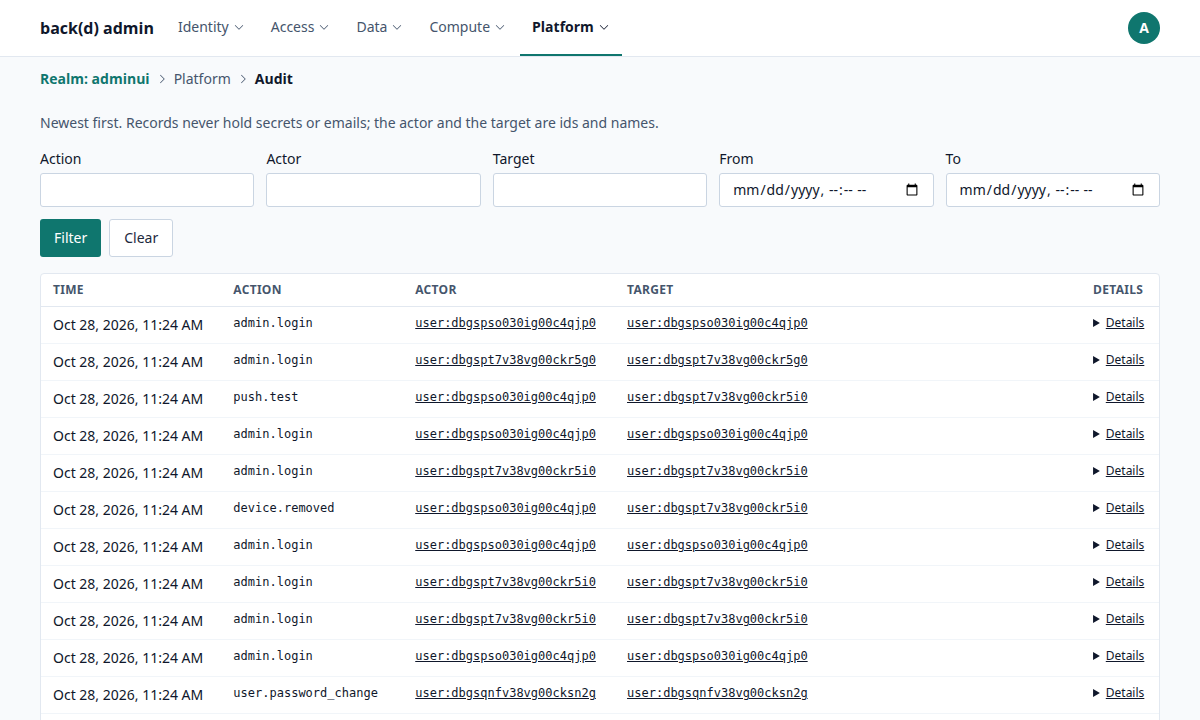
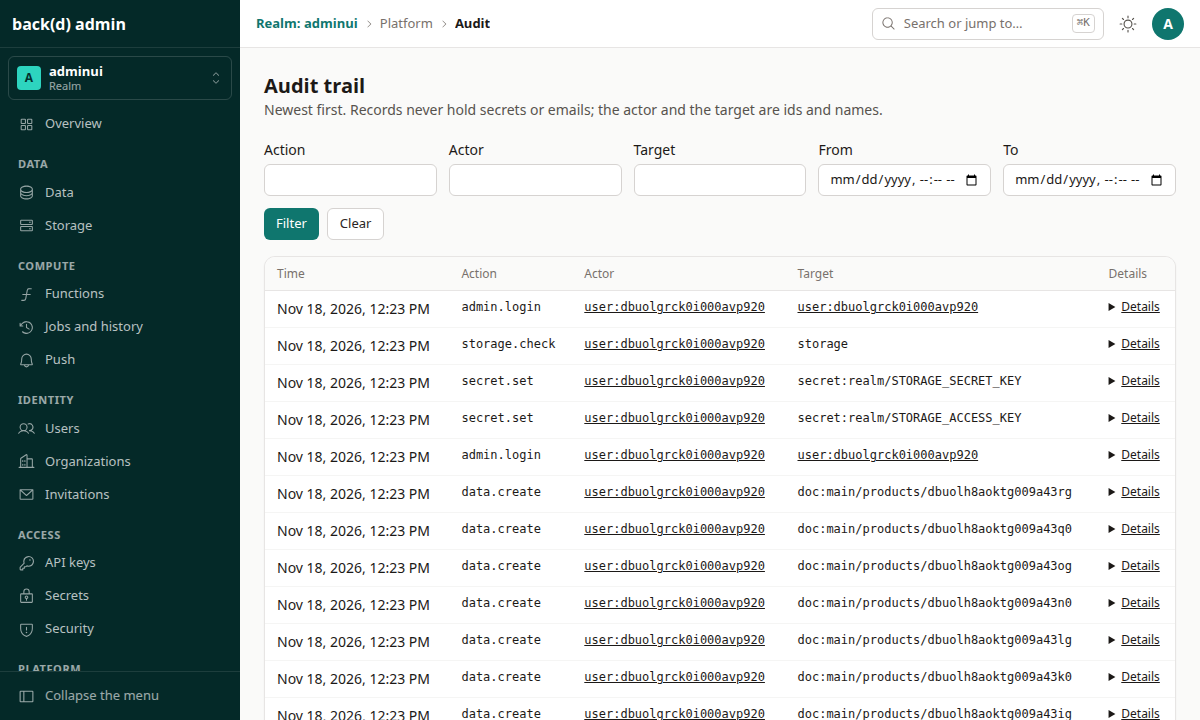
Docs: the Admin UI guide describes the sidebar, the collection tabs and the Account page
New pictures, taken on a clean stack. Also fixes an anchor in the Admin API page.

diff --git a/ui/admin/e2e/screenshots.spec.ts b/ui/admin/e2e/screenshots.spec.ts
@@ -39,18 +39,19 @@ test('screenshots of the main views', async ({ page, signIn }) => {
   await shoot('audit', 'audit-table', 'audit')
   await shoot('functions', 'fn-main-greet', 'functions')
   await shoot('functions/history', 'history-table', 'history')
-  await shoot('config/collections', 'col-main-products', 'config')
+  await shoot('config/files', 'file-tree', 'config')
   await page.goto(`/_ui/r/${REALM}/data/main/products`)
   await expect(page.getByTestId('docs-table')).toBeVisible()
 
   // The query builder with a condition, and a document as a form.
+  await page.getByTestId('filter-toggle').click()
   await page.getByRole('button', { name: 'Add condition' }).click()
   const row = page.getByTestId('condition').first()
   await row.getByLabel('Field').selectOption('name')
   await row.getByLabel('Operator').selectOption('$icontains')
   await row.getByLabel('Value').fill('widget')
   await page.getByRole('button', { name: 'Apply' }).click()
-  await expect(page.getByTestId('total')).toHaveText('1 documents')
+  await expect(page.getByTestId('total')).toHaveText(/ of 1$/)
   await page.screenshot({ path: out('query') })
   await page.getByRole('link', { name: /^[0-9a-v]{20}$/ }).first().click()
   await expect(page.getByTestId('doc-version')).toBeVisible()
@@ -60,6 +61,7 @@ test('screenshots of the main views', async ({ page, signIn }) => {
 
   // A user's page.
   await page.goto(`/_ui/r/${REALM}/users`)
+  await page.getByLabel('Search by email').fill('viewer@adminui.example')
   await page.getByRole('link', { name: 'viewer@adminui.example' }).click()
   await expect(page.getByTestId('user-email')).toBeVisible()
   await page.screenshot({ path: out('user') })

diff --git a/docs/content/docs/operate/administration/admin-ui.md b/docs/content/docs/operate/administration/admin-ui.md
@@ -39,23 +39,24 @@ The overview page lists the level (full, read-only or custom) and the areas the 
 
 ## Navigation
 
-{{< screenshot src="admin-ui/menu.png" alt="The bar with the Compute menu open: Functions, Push, and Jobs and history, each with a line saying what it is for; the breadcrumb below the bar" >}}
+{{< screenshot src="admin-ui/menu.png" alt="The sidebar, painted with the accent colour: the realm switcher, then Overview and the groups Data, Compute, Identity, Access and Platform; the breadcrumb, search and account in the bar above the page" >}}
 
-The pages are in five menus along the top:
+The pages are in a **sidebar** on the left, in the accent colour. At its top is the **realm switcher**; under it the overview and five groups:
 
-| Menu | Pages |
+| Group | Pages |
 |---|---|
-| **Identity** | Overview, Users, Organizations, Invitations |
-| **Access** | API keys, Secrets |
+| *(none)* | Overview |
 | **Data** | Data (with the schema checks), Storage |
-| **Compute** | Functions, Push, Jobs and history |
-| **Platform** | Audit, Configuration |
+| **Compute** | Functions, Jobs and history, Push |
+| **Identity** | Users, Organizations, Invitations |
+| **Access** | API keys, Secrets, Security |
+| **Platform** | Audit, Compliance, App config, Configuration |
 
-A menu opens with a click, or with Enter or Space on its button; it lists its pages with a line saying what each is for, puts the focus on the first, and closes with Escape or a click elsewhere. The page you are on is marked, and so is its menu. The menus show only the pages the account may read: a group with nothing to show is not there, and neither are Organizations, Storage or Push in a realm that has not switched them on.
+The page you are on is marked. The sidebar shows only the pages the account may read: a group with nothing to show is not there, and neither are Organizations, Storage or Push in a realm that has not switched them on. The button at its foot **collapses** it to icons (every link keeps its name as a tooltip and for screen readers); the choice is kept in this browser. On a narrow screen the sidebar is a drawer behind a **Menu** button in the top bar.
 
-Under the bar, the **breadcrumb** shows where you are, from the realm, in the accent colour, to the page (for example `Realm: adminui › Data › main › notes › a document`). Every part that has a page of its own leads there; a database has none, so it is plain text. The tab of the browser carries the name of the page too.
+The top bar has, from the left, the **breadcrumb**, a **search** (`Ctrl`/`⌘` + `K`, or the button) that jumps to a page, a collection or a function, a button for the **theme** and the **account menu**. The breadcrumb shows where you are, from the realm, in the accent colour, to the page (for example `Realm: adminui › Data › main › notes`). Every part that has a page of its own leads there; a database has none, so it is plain text. The tab of the browser carries the name of the page too.
 
-On the right, the **account menu** (the button with your initial) shows who is signed in, the language and theme choices and **Sign out**. What an action did is confirmed by a message under the bar (an error stays until it is dismissed). On a narrow screen the five menus and the account controls stack under one **Menu** button.
+The account menu (the button with your initial) shows who is signed in, a link to the **Account** page and **Sign out**. What an action did is confirmed by a message (an error stays until it is dismissed).
 
 ## Users and invitations
 
@@ -81,7 +82,7 @@ A read-only level sees the Users page only when the realm's `admin.read_access.u
 
 ## Your account and passkeys
 
-The **Account** page (the *Account* link of the account menu) lists the signed-in administrator's [passkeys](../../../build/auth/sessions/#passkeys) with their name, whether they sync between devices, when they were added and last used, and **adds**, **renames** and **removes** them. Adding or removing one asks for a fresh proof: the password, an authenticator code, or the passkey itself for an account whose only proof it is. Removing the passkey that opened the current session ends the session. A passkey is made by the browser, so the page offers *Add* only where the browser supports them.
+The **Account** page (the *Account* link of the account menu) holds the [appearance](#language-theme-and-accent) of the interface and lists the signed-in administrator's [passkeys](../../../build/auth/sessions/#passkeys) with their name, whether they sync between devices, when they were added and last used, and **adds**, **renames** and **removes** them. Adding or removing one asks for a fresh proof: the password, an authenticator code, or the passkey itself for an account whose only proof it is. Removing the passkey that opened the current session ends the session. A passkey is made by the browser, so the page offers *Add* only where the browser supports them.
 
 For this to work the realm needs `auth.passkeys.enabled`, and the admin interface must be served from an origin within the realm's `rp_id` (the origins in `auth.passkeys.origins`, `https` in production; `http://localhost` only in development). An administrator opening the interface at another address sees the browser refuse the ceremony.
 
@@ -141,15 +142,18 @@ On the Jobs page an administrator with the `functions` area can also **cancel** 
 
 ## Configuration
 
-{{< screenshot src="admin-ui/config.png" alt="A collection in the configuration view: its schema, indexes, rules and policy, each with its source file" >}}
+{{< screenshot src="admin-ui/config.png" alt="The configuration's files: the tree of every file the server loaded and the realm.yaml shown read-only" >}}
 
-The **Configuration** area shows what this instance runs for the realm, read from the files it loaded through `GET /_admin/config`. It is read-only by design: configuration is a reviewed, versioned artifact, so the interface never edits it. Change the files, review and deploy them; *Reload* fetches what the instance runs now.
+The **Configuration** area shows what this instance runs for the realm, read from the files it loaded through `GET /_admin/config`. It is read-only by design: configuration is a reviewed, versioned artifact, so the interface never edits, applies or reloads it. Change the files in your configuration repository, review and deploy them; the page's *Reload* button only fetches what the instance runs now.
 
 - **Overview:** the realm, its `realm.yaml` file, the **config fingerprint** (it changes whenever any configuration file changes, so comparing it across instances shows whether they run the same files) and the **startup warnings** (an admin API open to any network, open sign-up, no administrators and the like).
 - **Settings:** every realm setting with its default applied, one row per setting with its dotted path, and the roles with their description, admin access and seeded users. Secrets appear as names only, never values, and the seeded emails show only to a level that may read users.
-- **Collections:** for each database and collection, the JSON Schema (in a scrollable block, however large), the indexes, each operation's access rule and the `collection.yaml` it is in, and the collection policy (soft delete, what happens when an owner is erased). Every item names its source file, relative to the configuration directory.
-- **Preparing a change:** under a collection's schema and rules, **Prepare a change to `schema.json`** (or to `collection.yaml`, which holds the rules, the files and the erase policy: it starts from the file as written, comments included) opens an editor with what the server runs. As you edit, the server **checks your changes against the realm's whole configuration**: it loads every file of the realm, as startup does, with your drafts in place of the ones on disk, and says *All N files of the realm were checked with your changes and the configuration loads*, or lists what would not load and in which file (a schema change can break a rule in another file, so all of them are read). Drafts in several editors are checked together. **Download** stays off while the draft is not valid JSON or the check fails; then save the file in your configuration repository and commit it. Nothing is applied: the check runs on a copy, the server's configuration is never written through the interface, and backd reads configuration when it starts. A `schema.json` leaves out the file fields backd injects from `files:` (they are declared in `collection.yaml`); a `rules.yaml` is rebuilt from the expressions the server runs, one key per rule, so the comments and layout of your own file are not in it: take the change into your copy. Function bundles are built by `backd-server functions build` and are not part of the check. Realm settings, indexes and policies have no editor yet. It needs only the `config` area, so a read-only level can prepare files too.
+- **Sign-in:** a map of who may arrive (registration), the ways in (each strategy with its methods and the roles that accept it), the external providers and the protections (password length, failed sign-ins, second factor).
+- **Collections** are not here: each collection's schema, indexes, rules and policy are on its own page in the **Data** area (its *Schema* and *Rules* tabs), each naming its source file.
 - **Templates:** the email templates and hosted pages found on disk, by kind and language.
+- **Files:** every file the server loaded for the realm, as a tree, with the one you pick shown read-only and highlighted, line numbers included.
+- **Backup:** the `backd export` and `backd import` commands for this realm, to copy; a backup streams every collection and file, so it is made with the command line, never in a browser tab.
+- **API files:** the realm's OpenAPI documents (client and admin) and the generated types (TypeScript, Python, Go or Dart), to copy the address or download.
 
 The functions' definitions are on the Functions page. Reading the configuration needs the `config` area, which every read-only level has.
 
@@ -161,14 +165,16 @@ The functions' definitions are on the Functions page. Reading the configuration 
 
 The **Data** area browses and fixes documents through the [admin data route](../admin/#data), which serves them **past the collection's access rules**: an administrator sees and changes what an app's own users couldn't. Every change is audited (never its content), and a document created here has no owner.
 
-- **Databases and collections** come from the configuration (a level without the `config` area types the names). A collection that keeps a trash says so.
-- **Browsing:** a table with the collection's first scalar fields, the update time and version, paged (20, 50 or 100 a page) with the total, and a *JSON* view of the same page. The **query builder** offers the fields the schema declares (nested ones by dot path, plus `id` and `_meta`), and for each type only the operators backd's query language accepts: text operators for strings, comparisons and ranges for numbers and dates, `is one of` for enums. Values are checked in the browser (a number must be a number, a date a date) before anything is sent. Sorting is by any of those fields, and *Raw where (JSON)* takes the API's own query language for anything the builder can't say.
+- **Databases and collections** come from the configuration (a level without the `config` area types the names), as cards by database with a filter. A card shows the collection's name, how many fields it has and what it has: rules, a trash, organizations, custom ids, files, indexes.
+- **Browsing:** a table with the collection's first scalar fields, the update time and version, paged (20, 50 or 100 a page) with the range shown, and a *JSON* view of the same page. The toolbar has the **Filter** button (it shows how many conditions are active), the sort field and direction, and, for a collection that keeps a trash, the *Trash* switch. The filter panel's **query builder** offers the fields the schema declares (nested ones by dot path, plus `id` and `_meta`), and for each type only the operators backd's query language accepts: text operators for strings, comparisons and ranges for numbers and dates, `is one of` for enums. Values are checked in the browser (a number must be a number, a date a date) before anything is sent. Sorting is by any of those fields, and *Raw where (JSON)* takes the API's own query language for anything the builder can't say.
 - **Forms:** creating and editing use a form drawn from the collection's JSON Schema: objects, arrays (add, remove, reorder), strings with their formats (`email`, `date`, `date-time`, `uri`) and length limits, numbers with their limits, booleans, enums, required markers and descriptions. `id` and `_meta` are shown, never edited. Fields appear in alphabetical order: the configuration API returns a schema's properties sorted by name, not in the order the file declares them. Whatever a form can't draw faithfully, such as `oneOf`, `anyOf`, `if`/`then`, a recursive `$ref` or a free-form object, becomes a **JSON editor for that field**, and a schema that can't be a form at all is edited as JSON as a whole. Fields the schema doesn't declare are kept as they are. The server's validation messages appear next to the field they are about, and in a list at the top.
+- **A document's page** has the tabs *Form*, *JSON*, *Files* (only for a collection with file fields) and *History*, and a **Details** card with its id, versions, schema version, owner or organization and who created and last changed it. A bar that sticks to the foot of the page holds **Save** and says *Unsaved changes*. *History* lists the changes made to the document **through the admin API**, from the [audit trail](../audit/) (never their content): what an app's own users do is not in it.
 - **Concurrent edits:** a save sends the version you read (`If-Match`). If someone changed the document meanwhile, the page says so and offers the newer version to read; you can **load it** (dropping your edit) or **keep your changes** on top of it and save again.
-- **Schema check:** a collection's page has a **Show the schema check** button (the panel is folded by default) that unfolds a **Check documents against the schema** button. It asks first and **says that a check reads every document, so on a big collection it takes a long time and loads the database** (with about how many documents when the page knows). The check runs in the background: the page shows its percentage with a Cancel button, and then the latest report, each invalid document's id linking to it, whether it is in the trash, and the path and rule of its problems (never values). The *Schema checks* page lists every collection's latest report and can check them all; one check runs at a time. See [Finding documents that no longer match](../../../build/configuration/validation/#finding-documents-that-no-longer-match).
-- **Deleting:** it asks for the document's id to be typed. In a collection with `soft_delete` the document goes to the **trash**: browse it with the *Trash* switch, *Restore* a document, or *Delete for good* (also typed). Elsewhere a delete is final.
+- **Tabs of a collection:** *Records* (the table below), *Schema* (the fields with their types, the versions panel of a [versioned collection](#schema-versions) and the indexes), *Rules* (each operation's access rule), *Triggers* (those the configuration declares on the collection: events, function and condition, with the function linked; it needs the Functions area), *Checks* and *API* (client snippets for curl, JavaScript, Python, Go and Dart built from the realm's real address and the collection's own fields, and the links to the realm's OpenAPI document and generated types). Schema and Rules show the source file of each item; they are read from the configuration and changed in your repository.
+- **Schema check:** the **Checks** tab has a **Check documents against the schema** button. It asks first and **says that a check reads every document, so on a big collection it takes a long time and loads the database** (with about how many documents when the page knows). The check runs in the background: the page shows its percentage with a Cancel button, and then the latest report, each invalid document's id linking to it, whether it is in the trash, and the path and rule of its problems (never values). The *Schema checks* page (its link is on the Data page and in the tab) lists every collection's latest report and can check them all, with a Migrations section for [schema versions](#schema-versions); one check runs at a time. See [Finding documents that no longer match](../../../build/configuration/validation/#finding-documents-that-no-longer-match).
+- **Deleting:** it asks for the document's id to be typed. In a collection with `soft_delete` the document goes to the **trash**: browse it with the *Trash* switch of the toolbar, *Restore* a document, or *Delete for good* (also typed). Elsewhere a delete is final.
 
-- **Files:** a document of a collection with [file fields](../../../build/files/file-fields/) has a **Files** section below its form (the form and the JSON tab leave those fields out: they are backd's, and a save keeps them). Each field shows its limits (size, types, how many), what it holds with a **preview** of the images, and **Download**, **Remove** (it asks for the file's name) and **Upload** controls. A field with [`public: true`](../../../build/files/file-fields/#public-fields) is marked **Public**, and each of its files shows the permanent address it is read at, a link that opens in a new tab (anyone with it can read the file). An upload goes through backd or straight to the bucket, as the field says, with a progress bar; every upload or removal is a change to the document (a new version, audited as `data.update`) that your unsaved edits survive, and the field's own refusals (too large, a type it doesn't take, too many files) appear as they are. They use the admin data route's `_files` routes, past the collection's rules like the rest of the Data area.
+- **Files:** a document of a collection with [file fields](../../../build/files/file-fields/) has a **Files** tab (the *Form* and *JSON* tabs leave those fields out: they are backd's, and a save keeps them). Each field shows its limits (size, types, how many), what it holds with a **preview** of the images, and **Download**, **Remove** (it asks for the file's name) and **Upload** controls. A field with [`public: true`](../../../build/files/file-fields/#public-fields) is marked **Public**, and each of its files shows the permanent address it is read at, a link that opens in a new tab (anyone with it can read the file). An upload goes through backd or straight to the bucket, as the field says, with a progress bar; every upload or removal is a change to the document (a new version, audited as `data.update`) that your unsaved edits survive, and the field's own refusals (too large, a type it doesn't take, too many files) appear as they are. They use the admin data route's `_files` routes, past the collection's rules like the rest of the Data area.
 
 A read-only level browses only when the realm's `admin.read_access.data` allows it, and then every form is read-only with no button that changes anything: the files can be downloaded, not changed. Creating a document here can't attach files, so a collection whose file field is **required** is created through the API (a [pending upload](../../../build/files/transfers/#creating-a-document-with-its-files)) and its files managed here.
 
@@ -184,9 +190,15 @@ The **Push** page (for realms with [`push:`](../../../build/push/); the `functio
 
 The **Storage** page (for realms with [`storage:`](../../providers/storage/)) shows how the storage is connected (the provider, bucket and prefix, whether the keys are set and the bucket answers), the **bytes and files in use** against the realm's [quota](../../providers/storage/#quotas) with a meter, the users holding the most with their share of the per-user quota, and the clean-up queue (objects waiting to be deleted, uploads left unfinished). A realm with a [`public_storage:`](../../providers/storage/#public-storage) has its own block there, with the same checks and the address its files are read at. A banner appears when the realm or a user is at or near a limit. It needs the `config` area, which every read-only level has, and refreshes with a button.
 
-## Language and theme
+## Language, theme and accent
 
-The interface speaks **English** and **Spanish**. It follows the browser's preferred languages (the first one it has a translation for, English otherwise) until you pick one with the language switch next to the theme switch; the choice is kept in this browser, and *Automatic* goes back to following it. Dates are written in the language shown. Light and dark themes follow the system and can be switched by hand.
+The look of the interface is chosen on the **Account** page, in the *Appearance* section, and shown at once in a preview next to the choices. Each is kept in this browser only (a browser you sign in from later has its own):
+
+- **Language:** the interface speaks **English** and **Spanish**. *Automatic* follows the browser's preferred languages (the first one it has a translation for, English otherwise) until you pick one. Dates are written in the language shown.
+- **Theme:** *System*, *Light* or *Dark*. The button in the top bar goes round the three without leaving the page.
+- **Accent colour:** teal (the default), blue, indigo, violet, rose, orange or emerald. It colours the sidebar, the buttons and the links; every combination keeps the text readable (WCAG AA contrast).
+
+The sign-in page has the theme and the accent too, before anyone is signed in.
 
 What the interface *shows from your system* is not translated: messages the server sends (a validation error, a refused change), the names in your configuration, audit actions and function logs stay as they are. The word typed to confirm a destructive action is the one shown in the dialog, in the language shown.
 

diff --git a/docs/content/docs/operate/administration/admin.md b/docs/content/docs/operate/administration/admin.md
@@ -287,7 +287,7 @@ curl -X PUT https://localhost:8443/v1/blog/_admin/secrets/STRIPE_KEY \
 
 `GET /v1/{realm}/_admin/config` shows what this instance runs for the realm, read from the files it loaded, so an operator can check what is live without logging into the host: the realm's settings (defaults applied), every database's collections (schema, indexes, rules, the `collection.yaml` policy) and functions (`function.yaml`: mode, limits, `calls`, `network`, secrets **by name only**), the email templates and hosted pages found on disk, the **configuration fingerprint** (the same `/readyz` shows) and a list of warnings (authentication disabled, no administrator role, an admin API reachable from any network, open sign-up, the development delivery function). Each item carries the file it came from, relative to the config directory. Besides the settings of every feature, with their defaults, it shows how people sign in (strategies, providers with their secrets **named, never shown**, passkeys, TOTP, magic links), the consents, compliance and rate limits. Seeded user emails show only to callers who may read users. It needs the `config` [area](#admin-rights), which a read-only administrator has.
 
-`GET /v1/{realm}/_admin/config/files` lists the files themselves, with their text: `realm.yaml`, `_realm/`, each collection's schema files, indexes and `collection.yaml`, and the functions projects. It is how the admin UI's Files tab lets you browse the whole configuration. The limits are those of a [function's source](#functions): a file over 256 KiB comes cut, and binary files come without text. `realm.yaml` holds the seeded emails, so it comes without content for a caller who may not read users.
+`GET /v1/{realm}/_admin/config/files` lists the files themselves, with their text: `realm.yaml`, `_realm/`, each collection's schema files, indexes and `collection.yaml`, and the functions projects. It is how the admin UI's Files tab lets you browse the whole configuration. The limits are those of a [function's source](#endpoints) (`GET /functions/{database}/{name}/source`): a file over 256 KiB comes cut, and binary files come without text. `realm.yaml` holds the seeded emails, so it comes without content for a caller who may not read users.
 
 Nothing here can be changed through the API: configuration is a reviewed, versioned artifact, and a change goes through your repository and a deploy.
 
